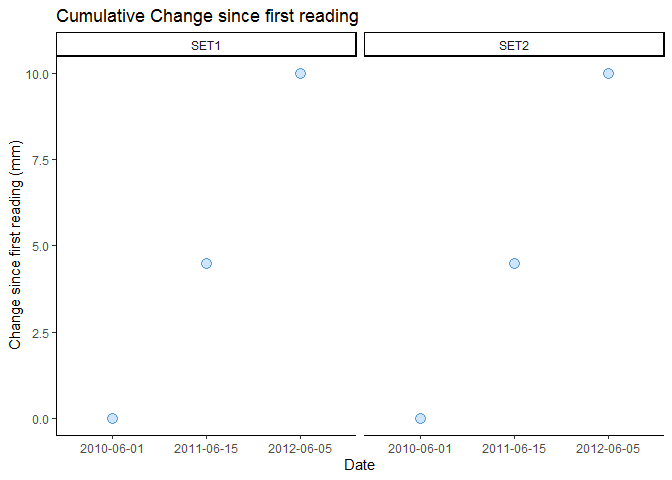
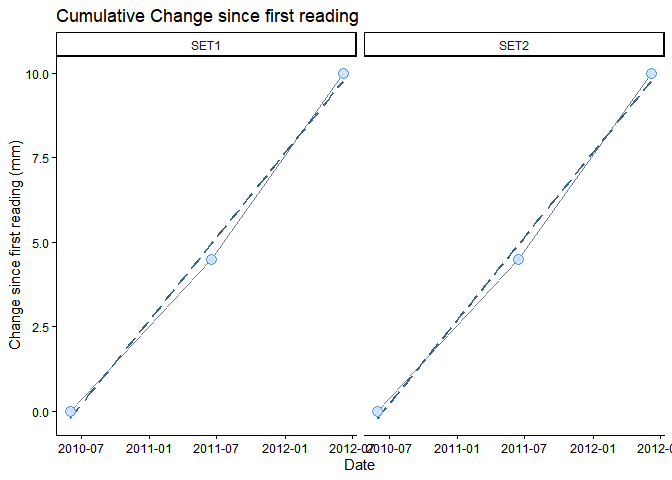
updated readme and vignette

diff --git a/README.md b/README.md
@@ -4,25 +4,19 @@
 # SETr
 
 <!-- badges: start -->
-
 <!-- badges: end -->
 
 The goal of SETr is to simplify calculations and make graphs for QA/QC
 and communication of Surface Elevation Table (SET) data.
 
-This package is under development, based on functions created as part of
-a larger workflow. All code for that project is also on [GitHub,
+This package is based on functions created as part of a larger workflow.
+All code for that project is also on [GitHub,
 here](https://github.com/swmpkim/SETr_Reserve_Template); and at the top
 of the README for that repo are links to publicly available project
 outputs. Most of the functions here were used in the [Reserve-level
 technical
 reports](https://drive.google.com/drive/folders/1ExY94WWOoS3iY3iJpKdteI96_iFnDdMM?usp=sharing).
-At first, certain column names will have to exist in the data frames
-that these functions are used on. As time permits, I hope to add some
-flexibility.
-
-This README still needs a lot of attention too; the example below is
-very minimal.
+Please see the package vignette for details on using this package.
 
 ## Installation
 
@@ -30,8 +24,8 @@ You can install the development version from
 [GitHub](https://github.com/) with:
 
 ``` r
-# install.packages("devtools")
-devtools::install_github("swmpkim/SETr")
+# install.packages("remotes")
+remotes::install_github("swmpkim/SETr")
 ```
 
 ## Example
